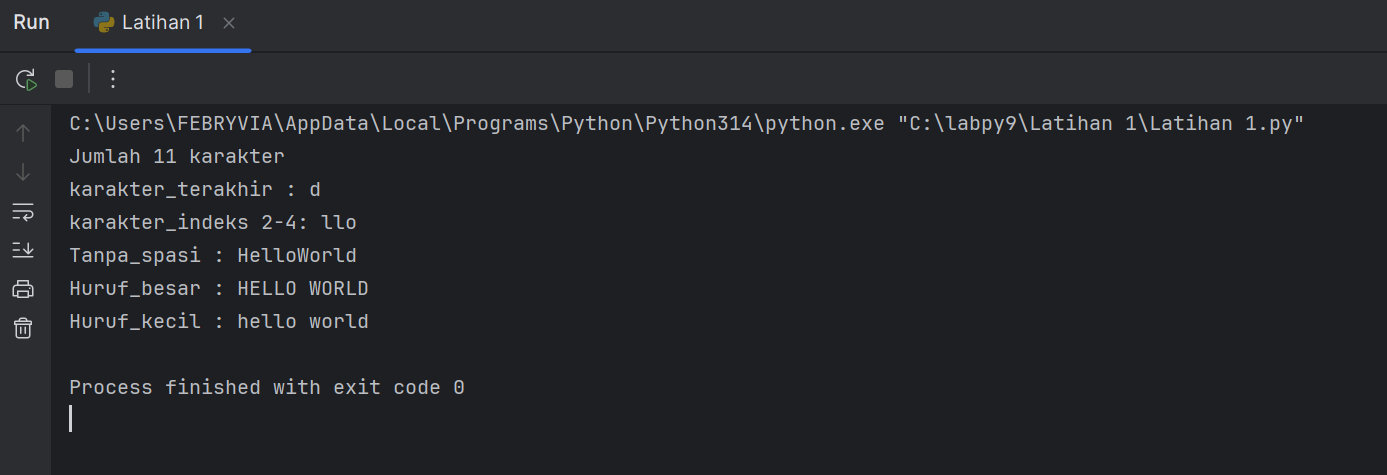
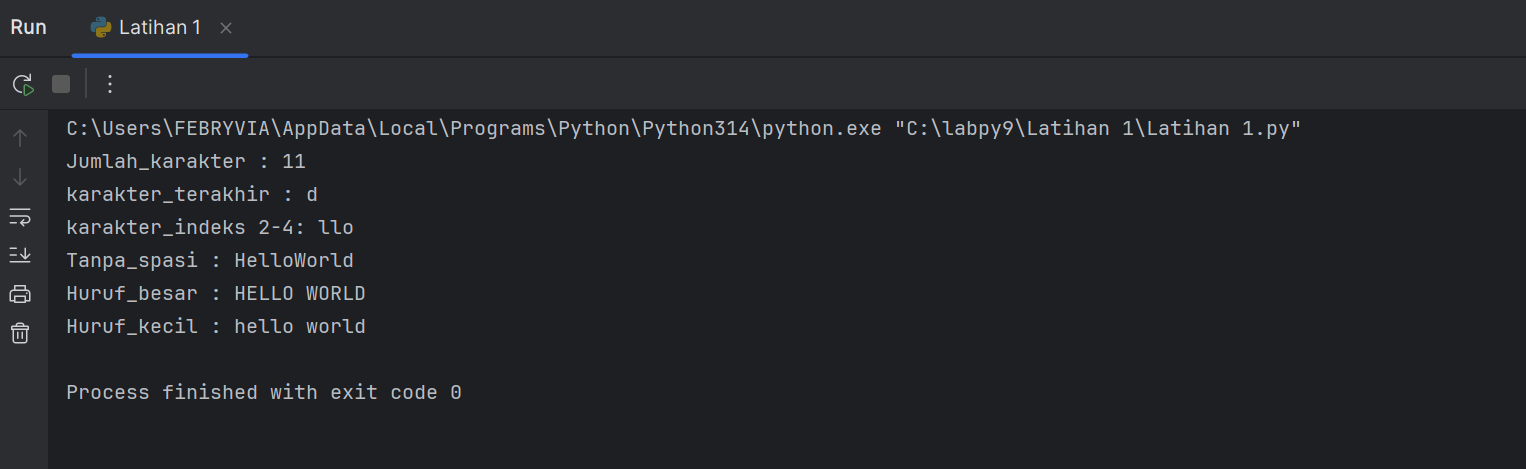
Menambahkan Praktikum 9

diff --git a/Latihan 1/Latihan 1.py b/Latihan 1/Latihan 1.py
@@ -2,7 +2,7 @@ txt = 'Hello World'
 
 #Hitung jumlah karakter
 Jumlah_karakter = len(txt)
-print (f"Jumlah {Jumlah_karakter} karakter")
+print (f"Jumlah_karakter : {Jumlah_karakter} ")
 
 #Ambil karakter terakhir
 karakter_terakhir = txt[-1]

diff --git a/README.md b/README.md
@@ -1,2 +1,3 @@
 #labpy9
 #labpy9
+#labpy9
